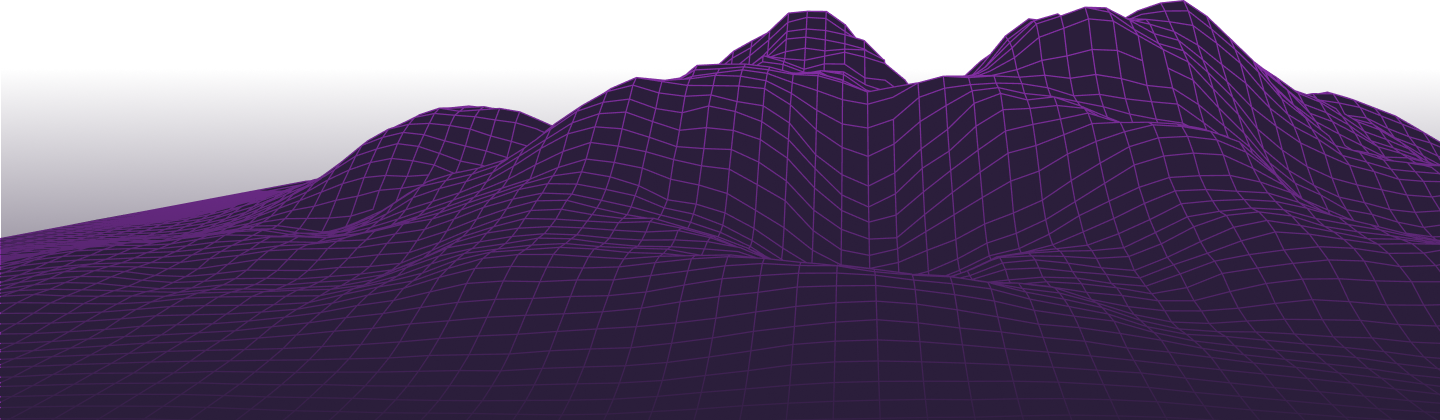
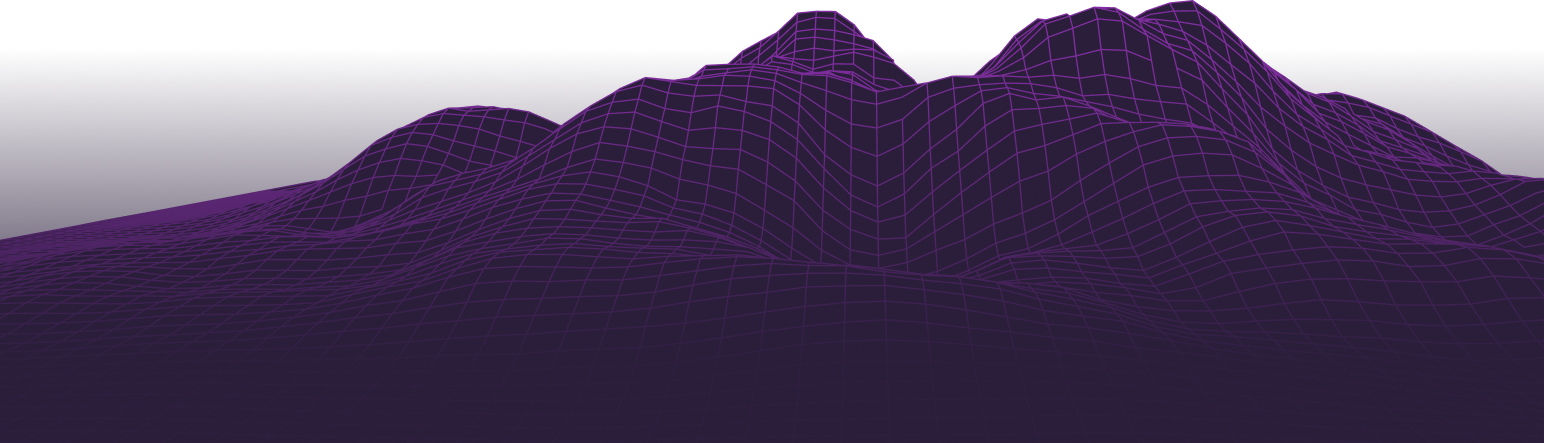
Fix mountains height

diff --git a/index.html b/index.html
@@ -53,12 +53,12 @@
         <div class="logo">
           <div class="logo__sun">
             <img class="logo__image" src="./assets/img/sun.png" alt="" />
+            <img
+              src="./assets/img/mountains.png"
+              alt=""
+              class="logo__mountains"
+            />
           </div>
-          <img
-            src="./assets/img/mountains.png"
-            alt=""
-            class="logo__mountains"
-          />
         </div>
         <div class="container__flex">
           <div class="media">

diff --git a/css/main.css b/css/main.css
@@ -452,13 +452,12 @@ body {
     z-index: 1; }
   .logo__mountains {
     position: absolute;
-    top: 323px;
-    left: -833px;
+    top: 310px;
+    left: -839px;
     width: 100vw;
-    min-width: 1728px;
+    min-width: 1806px;
     height: calc(100vh - 458px);
-    min-height: 480px;
-    margin: 0 auto;
+    min-height: 443px;
     z-index: 2; }
   .logo__title {
     position: absolute;

diff --git a/scss/main.scss b/scss/main.scss
@@ -77,16 +77,14 @@ body {
 		top: 60px;
 		z-index: 1;
 	}
-
 	&__mountains {
 		position: absolute;
-		top: 323px;
-		left: -833px;
+		top: 310px;
+		left: -839px;
 		width: 100vw;
-		min-width: 1728px;
+		min-width: 1806px;
 		height: calc(100vh - 458px);
-		min-height: 480px;
-		margin: 0 auto;
+		min-height: 443px;
 		z-index: 2;
 	}
 	&__title {
